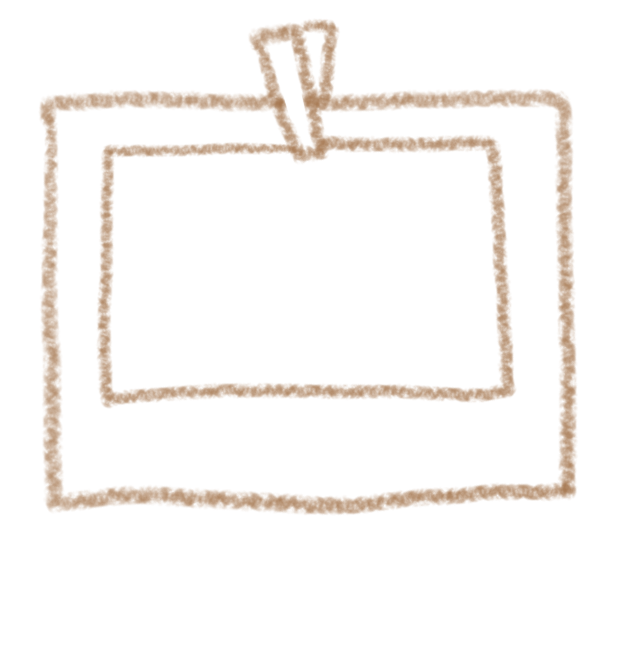
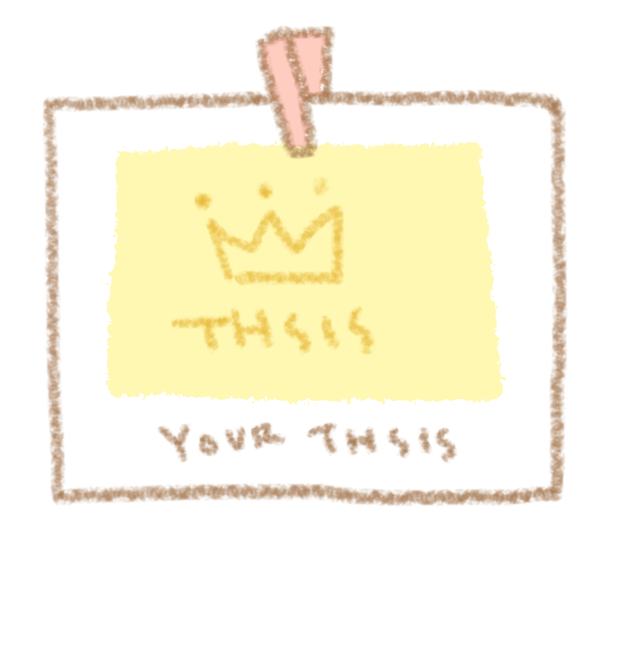
added main picture images

diff --git a/public/css/stylesheet.css b/public/css/stylesheet.css
@@ -29,6 +29,35 @@ a:active {
   outline: 0;
 }
 
+hr {
+  height: 1px;
+  border: 0;
+  color: #333;
+  background-color: #333;
+  width: 100%;
+  left: 0px;
+}
+
+.inputs {
+  -webkit-border-radius: 5px;
+  -moz-border-radius: 5px;
+  -ms-border-radius: 5px;
+  -o-border-radius: 5px;
+  border-radius: 5px;
+  border: none;
+  width: 70%;
+  height: 28px;
+  float: left;
+  font-size: 0.7em;
+  letter-spacing: .1em;
+  background-color: rgba(255, 255, 255, 0.3);
+  color: #817f77;
+}
+
+#invite {
+  height: 28px;
+}
+
 /*****************************************/
 body {
   background-color: #fffde9;
@@ -116,6 +145,19 @@ h4 {
   padding-top: 10%;
 }
 
+#submission {
+  width: 50%;
+  margin: 0 auto;
+  text-align: center;
+  padding-top: 10%;
+}
+
+.message {
+  text-transform: uppercase;
+  letter-spacing: 0.4em;
+  line-height: 1.5em;
+}
+
 #menuWrapper {
   width: 100%;
   position: fixed;
@@ -123,11 +165,16 @@ h4 {
   height: 10%;
 }
 
+.inactive {
+  opacity: 0.5;
+}
+
 .menus {
   width: 21%;
 }
 
-#image_share_f {
+#image_share_f,
+#image_share_t {
   width: 110%;
 }
 
@@ -179,7 +226,7 @@ canvas {
   top: 40px;
   background-size: 3%;
   background-repeat: repeat-x;
-  width: 5080px;
+  width: 4480px;
   position: absolute;
   z-index: 2;
 }
@@ -232,7 +279,7 @@ canvas {
   background-color: rgba(20, 20, 20, 0.7);
 }
 
-#questionArea {
+#questionPopup {
   -webkit-border-radius: 10px;
   -moz-border-radius: 10px;
   -ms-border-radius: 10px;
@@ -241,18 +288,13 @@ canvas {
   border: none;
   position: relative;
   width: 600px;
-  height: 400px;
+  height: 345px;
   padding: 30px 50px;
   top: 150px;
   margin: 0 auto;
   z-index: 300;
   color: rgba(20, 20, 20, 0.7);
   background-color: rgba(255, 255, 255, 0.8);
-}
-
-#question {
-  letter-spacing: .1em;
-  font-size: 1.6em;
 }
 
 #close,
@@ -268,6 +310,22 @@ canvas {
 #close a:hover {
   /* testing */
   color: red;
+}
+
+#textArea {
+  margin-left: 25px;
+}
+
+#instruction_title {
+  font-size: 0.9em;
+  letter-spacing: 0.5em;
+  text-transform: uppercase;
+}
+
+#question {
+  letter-spacing: .1em;
+  font-size: 1.6em;
+  line-height: 1.7em;
 }
 
 #middleArea {

diff --git a/views/submission.html b/views/submission.html
@@ -1,13 +1,20 @@
 <!-- temporary setting --> 
 <style type="text/css">
 	body{
-		background-color: #B3FAD8;
+		background-color: #EBC8FF;
 		color: black;
 	}
 
-	#friendsArea{
-		background-color: yellow;
+	#background_layer{
+		background-color: rgba(255,255,255,0);
+
+		position: absolute;
+		width: 100%;
+		height: 100%;
+		z-index: 5; 
 	}
+
+
 </style>
 
 
@@ -16,37 +23,46 @@
 	{{#user}}
 		<h4><a href="#">{{user.name}}</a></h4>
 	{{/user}}
-	<a href="/logout"><button class="smButtons">LOGOUT</button></a>
+	<a href="/logout"><button id="logoutButton" class="smButtons">LOGOUT</button></a>
 </div>
 
 
-<br>
-<br>
-thank you for your submission {{name}} <br>
+<div id="background_layer">
+	<div id="submission">
+		<br>
+		<br>
+		<span class="message">thank you for your submission,
+		<br>{{name}}</span>
+		<br>
 
-Let me know whenver drawing is done..!
-<button id="pingMe">Let me know!!</button>
-<!-- {{photo.isOpen}} -->
-<br> <!--delete-->
+		<!-- Let me know whenver drawing is done..!<br>
+		<button class="bigButtons" id="pingMe">Let me know!!</button> -->
+		<!-- {{photo.isOpen}} -->
+		<br>
 
+		<hr></hr>
 
-============================<br> <!--delete-->
-Invite Friends...! <br> <!--delete-->
+		<span class="message">Invite Friends</span><br> <!--delete-->
 
-<input type="text" class="inputs"><br> <!--delete-->
-
-
-<div id="friendsArea"></div>
-<button id="addInputs">Add more Friends</button>
-
-<br> <!--delete-->
-<br> <!--delete-->
-<button id="invite">Invite!</button>
+		<br>
+		<input type="text" class="inputs">
+		<a href="/"><button class="smButtons" id="invite">Invite!</button></a>
 
 
+		<div id="friendsArea"></div>
+		<!-- <button id="addInputs">Add more Friends</button> -->
 
-<a href="/">
-back to the main
-</a>
+
+
+		<br>
+		<br>
+		<br>
+		<a href="/"><button id="backToMain" class="bigButtons">
+		back to the main
+		</button></a>
+	</div>
+</div>
+
+
 
 <script type="text/javascript" src="/js/email.js"></script>

diff --git a/views/newdrawing.html b/views/newdrawing.html
@@ -3,13 +3,19 @@
 <!-- ////////////////////////////////-->
 <!-- QUESTION POP UP -->
 <div id="covered">
-	<div id="questionArea">
+	<div id="questionPopup">
 		<!-- display question -->
 		<span id="close"><a href="#">x</a></span>
 		<br>
 		<br>
-		<span id="question">Q: {{question}}</span>
-		<hr noshade size="1" color="black"></hr>
+
+		<div id="textArea">
+			<span id="instruction_title">Answer the question with</span><br>
+			<span id="instruction_title"><b>your drawing!</b></span>
+			<hr noshade size="1" color="black"></hr>
+			<span id="question">Q: {{question}}</span>
+		</div>
+		
 	</div>
 </div>
 
@@ -24,15 +30,15 @@
 		<div id="test1" class="col-xs-4">
 			<a href="#" id="undo"><img class="menus" id="image_undo" src="/images/menu_01.png"></a>
 			<!-- <a href="/theme/{{theme}}" id="clear"><img class="menus" id="image_clear" src="/images/menu_02.png"></a> -->
-			<a href="/theme/{{theme}}" id="clear"><img class="menus" id="image_clear" src="/images/menu_02.png"></a>
+			<a href="/theme/{{theme}}" id="clear"><img class="inactive menus" id="image_clear" src="/images/menu_02.png"></a>
 			<a href="#" id="save" data-theme="{{theme}}"><img class="menus" id="image_save" src="/images/menu_03.png"></a>
 		</div>
 		<div id="test2" class="col-xs-1"></div>
 		<div id="test3" class="col-xs-1">
-			<a href="#"><img class="menus" id="image_share_f" src="/images/menu_04_facebook.png"></a>
+			<a href="#"><img class="inactive menus" id="image_share_f" src="/images/menu_04_twitter.png"></a>
 		</div>
 		<div id="test4" class="col-xs-1">
-			<a href={{shareUrl}}><img class="menus" id="image_share_f" src="/images/menu_04_facebook.png"></a>
+			<a href={{shareUrl}}><img class="menus" id="image_share_t" src="/images/menu_04_facebook.png"></a>
 		</div>
 	</div>
 

diff --git a/public/js/background.js b/public/js/background.js
@@ -12,48 +12,48 @@ var themeList= [
    },
    {  
       "theme":"itp_firstday",
-      "image":"/thumbs/image_01.png"
+      "image":"/thumbs/image_02.png"
    },
    {  
       "theme":"worst_haircut",
-      "image":"/thumbs/image_01.png"
+      "image":"/thumbs/image_03.png"
    },
    {  
       "theme":"spontaneous",
-      "image":"/thumbs/image_01.png"
+      "image":"/thumbs/image_04.png"
    },
    {  
       "theme":"roadTrip",
-      "image":"/thumbs/image_01.png"
+      "image":"/thumbs/image_05.png"
    },
    {  
       "theme":"postCard",
-      "image":"/thumbs/image_01.png"
+      "image":"/thumbs/image_06.png"
    },
    {  
       "theme":"laugh",
-      "image":"/thumbs/image_01.png"
+      "image":"/thumbs/image_07.png"
    },
    {  
       "theme":"pararell_World",
-      "image":"/thumbs/image_01.png"
+      "image":"/thumbs/image_08.png"
    },
    {  
       "theme":"smell",
-      "image":"/thumbs/image_01.png"
+      "image":"/thumbs/image_09.png"
    }, 
 	//
    {  
       "theme":"paint",
-      "image":"/thumbs/image_01.png"
+      "image":"/thumbs/image_10.png"
    },
    {  
       "theme":"joy",
-      "image":"/thumbs/image_01.png"
+      "image":"/thumbs/image_11.png"
    },
    {  
       "theme":"weekends",
-      "image":"/thumbs/image_01.png"
+      "image":"/thumbs/image_12.png"
    }
 ]
 

diff --git a/views/login.html b/views/login.html
@@ -16,7 +16,8 @@
 		{{^user}}
 			<a href="/auth/facebook">
 			<button class="bigButtons">Login with facebook</button>
-			</a>
+			</a><br><br>
+			
 			<a href="/auth/twitter">
 			<button class="bigButtons">Login with twitter</button>
 			</a>			

diff --git a/app.js b/app.js
@@ -168,7 +168,7 @@ var themes = {
 	},
 	itp_firstday: {
 		name: 'itp_firstday',
-		question: 'your first day at work',
+		question: 'Your first day at ITP?',
 		isOpen: true
 	},
 	worst_haircut:{
